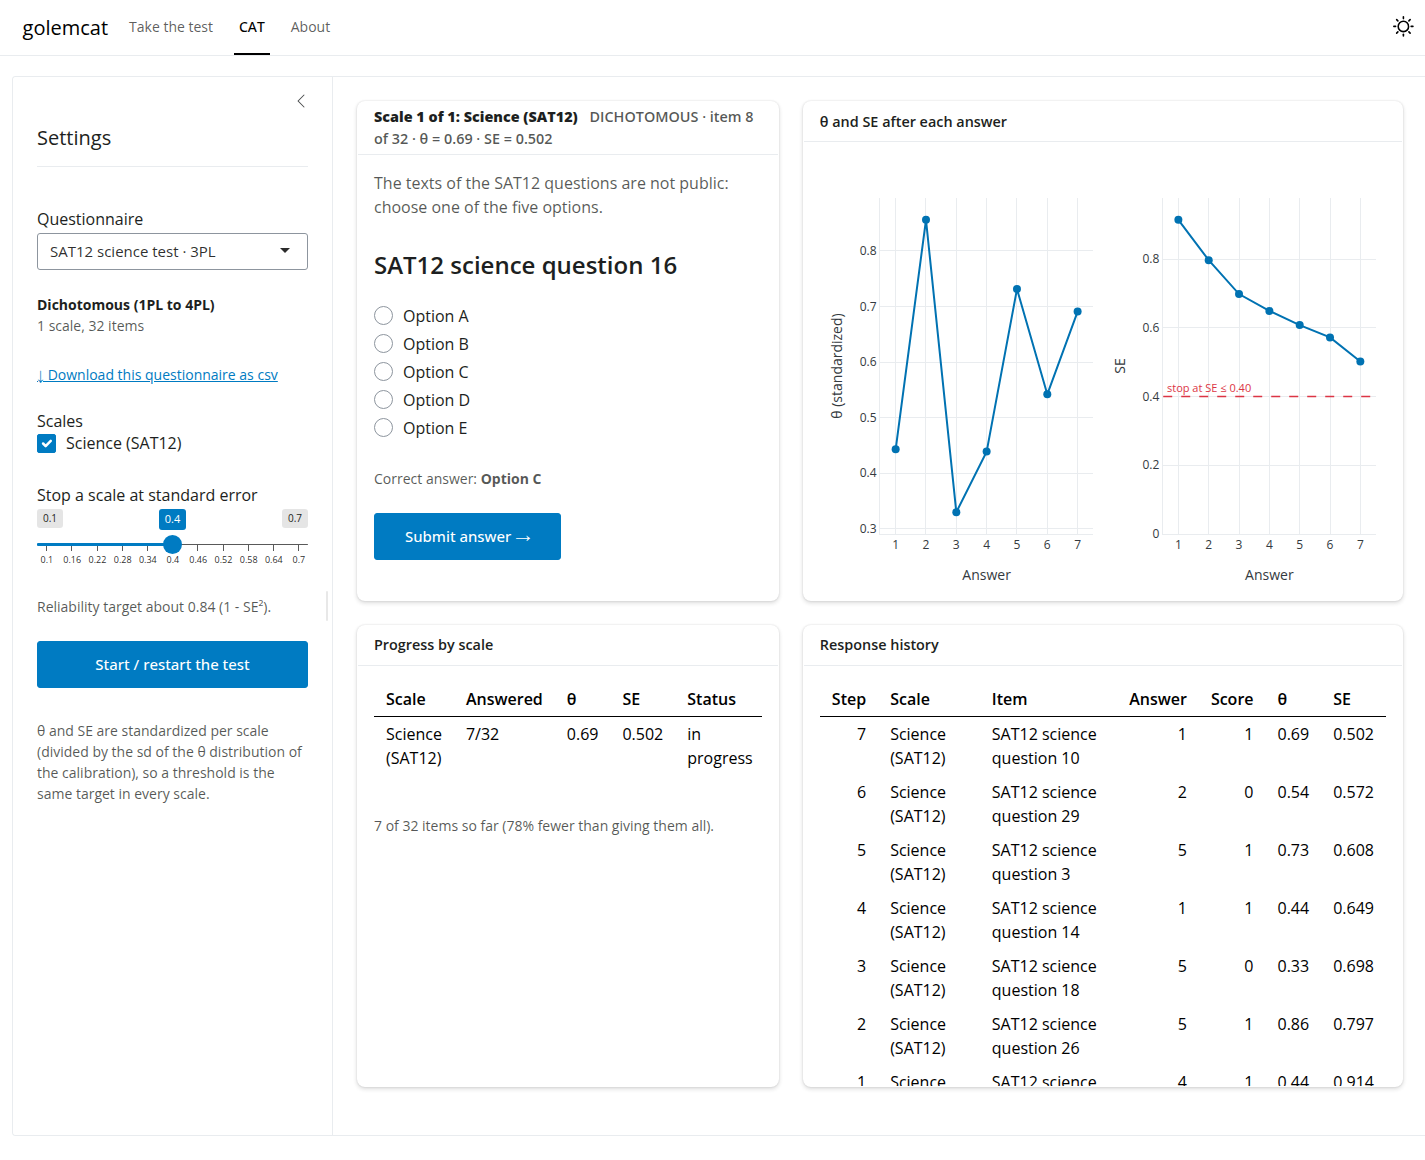
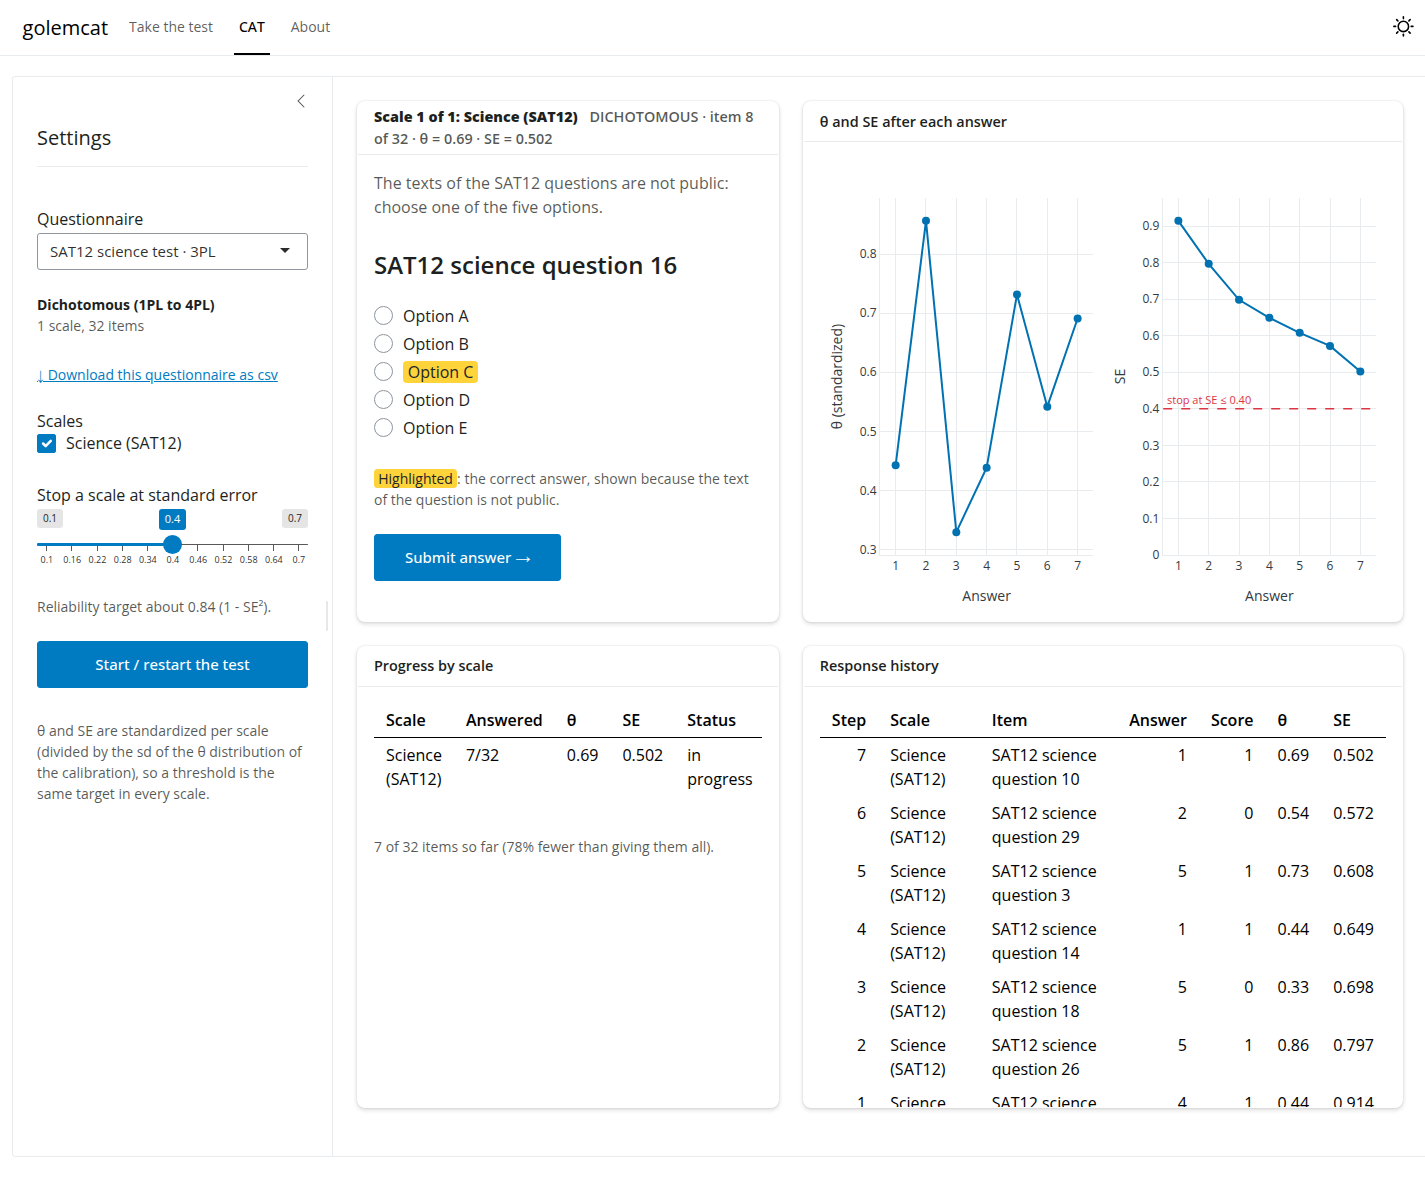
highligted text

diff --git a/README.md b/README.md
@@ -43,7 +43,7 @@ The CAT tab with the graded response model on two of the Big Five traits:
 
 ![CAT tab: graded response model](screenshots/cat_grm.png)
 
-The CAT tab with the SAT12 science test, scored right/wrong with the 3PL:
+The CAT tab with the SAT12 science test, scored right/wrong with the 3PL. The question texts are not public, so the correct option is highlighted:
 
 ![CAT tab: SAT12, 3PL](screenshots/cat_3pl.png)
 
@@ -113,6 +113,7 @@ write_questionnaire(q, "anxiety.csv")                # or a list of scales
 | `option1`, `option2`, … | the answer options in scoring order (numbered when absent) |
 | `key` | right/wrong items given as several options: the correct one |
 | `reverse` | `TRUE` for ordered items scored in reverse |
+| `public` | `FALSE` when the item text is not public and only a placeholder is shown: the CAT tab then highlights the correct option (`key`) in yellow |
 | `a1`, `b1`…, `c`, `d`, `d0`…, `ak0`…, `g`, `u` | the coefficients of `coef(fit, simplify = TRUE)$items` |
 | `prior_mean`, `prior_sd` | mean and sd of the latent trait of the scale (0 and 1 when absent) |
 
